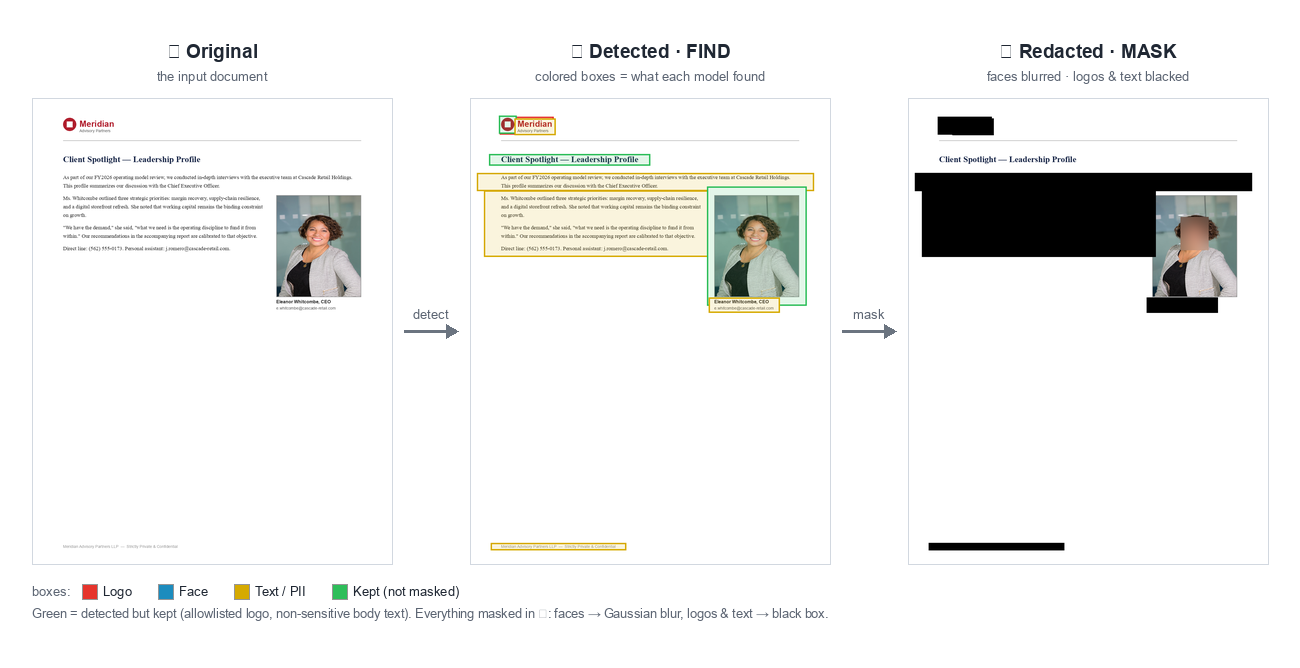
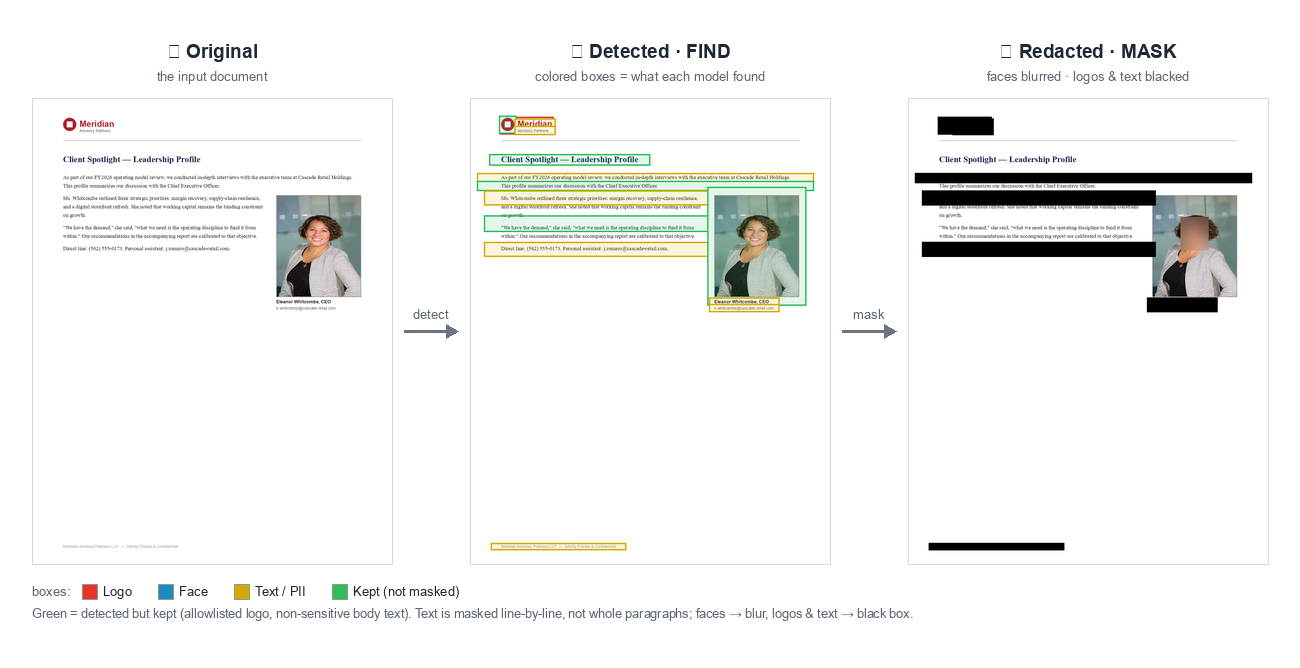
fix(text_pii): mask text line-by-line + tighten regex (reduce over-redaction)
Validation showed the text lane over-redacts: ai_parse_document returns one
coarse box per block, so pii_only masked whole paragraphs/contact-blocks when a
single token was sensitive (14-36% of the page). Two fixes:

- split_into_lines(): partition a multi-line text element's box into per-line
  bands (padded slightly) so the regex/Claude filter masks only the sensitive
  lines, not the whole element. Tables/figures left whole. Applied in both the
  notebook pipeline (parse_document_text_elements) and the app (text_detect).
- tighten PII_PATTERNS: phone now needs a real 3-3-4 shape; ZIP needs a state
  prefix or ZIP+4 — the old loose patterns fired on years / amounts / SEC ZIPs
  ("FY2026", "Net income: 4,465,000", "20549"), each blacking a line.

Re-validated: text masked-area drops on text docs (doc_report 14.6→8.0%,
nda 29→18%, business_card 25→19%, diligence 20→12%) with body copy now kept;
regex sanity passes (matches real phones/SSN/ZIP, rejects the false positives).
Walkthrough image regenerated to show line-level masking. Tables still masked
whole (dense PII by nature) — noted as a further option.

diff --git a/pipeline/text_pii.py b/pipeline/text_pii.py
@@ -35,13 +35,17 @@ from PIL import Image
 from .boxes import Detection, area_frac, clip_to_image, pad_box
 
 # ── Deterministic PII patterns (always redacted, no model needed) ───────────────
+# Patterns are intentionally structure-specific: a loose "any digits" phone or a
+# bare 5-digit ZIP fires on years, amounts, and IDs, which (combined with masking)
+# is a big source of over-redaction. Phone requires a real 3-3-4 shape; ZIP
+# requires a state prefix or the ZIP+4 form (Claude still catches looser addresses).
 PII_PATTERNS = {
     "email": re.compile(r"[A-Za-z0-9._%+-]+@[A-Za-z0-9.-]+\.[A-Za-z]{2,}"),
     "url": re.compile(r"\b(?:https?://|www\.)[^\s]+", re.I),
-    "phone": re.compile(r"(?:(?:\+?\d{1,3}[\s.-]?)?(?:\(?\d{2,4}\)?[\s.-]?){2,4}\d{2,4})"),
+    "phone": re.compile(r"(?:\+?\d{1,3}[\s.-]?)?(?:\(\d{3}\)|\d{3})[\s.-]\d{3}[\s.-]\d{4}\b"),
     "ssn": re.compile(r"\b\d{3}-\d{2}-\d{4}\b"),
     "card": re.compile(r"\b(?:\d[ -]?){13,16}\b"),
-    "zip": re.compile(r"\b\d{5}(?:-\d{4})?\b"),
+    "zip": re.compile(r"\b[A-Z]{2}\s+\d{5}(?:-\d{4})?\b|\b\d{5}-\d{4}\b"),
 }
 
 # ai_parse_document element types that represent non-text graphics.
@@ -141,7 +145,45 @@ def parse_document_text_elements(
             box = pad_box(box, pad_frac, img_w, img_h)
             dets.append(Detection(box=box, source="text", label=content[:40], score=1.0,
                                   meta={"content": content, "elem_type": etype}))
-    return dets
+    return split_into_lines(dets)
+
+
+def split_into_lines(dets: List[Detection]) -> List[Detection]:
+    """Split a multi-line text element into one detection PER LINE.
+
+    ``ai_parse_document`` returns one coarse box per element — a whole paragraph
+    or contact block is a single box — so masking the element blacks out generic
+    text around one PII token (the main source of over-redaction). We partition
+    a multi-line element's box into equal vertical bands (one per content line)
+    so the downstream regex/Claude filter can mask only the sensitive lines.
+
+    Tables (HTML content) and figures are left whole — their layout isn't a
+    simple vertical line stack. Bands are padded slightly so a line is never
+    left half-masked by an imperfect split.
+    """
+    out: List[Detection] = []
+    for d in dets:
+        content = d.meta.get("content", d.label) or ""
+        etype = d.meta.get("elem_type", "")
+        lines = content.split("\n")
+        non_empty = [ln for ln in lines if ln.strip()]
+        if (d.source != "text" or etype in FIGURE_TYPES
+                or content.strip().startswith("<table") or len(non_empty) < 2):
+            out.append(d)
+            continue
+        x1, y1, x2, y2 = d.box
+        n = len(lines)
+        h = (y2 - y1) / n
+        vpad = 0.12 * h
+        for i, ln in enumerate(lines):
+            if not ln.strip():
+                continue
+            sy1 = max(y1, y1 + i * h - vpad)
+            sy2 = min(y2, y1 + (i + 1) * h + vpad)
+            out.append(Detection(box=[x1, sy1, x2, sy2], source="text",
+                                  label=ln.strip()[:40], score=d.score,
+                                  meta={"content": ln.strip(), "elem_type": etype, "split": True}))
+    return out
 
 
 # ── PII sensitivity filter ──────────────────────────────────────────────────────

diff --git a/app/app.py b/app/app.py
@@ -201,7 +201,9 @@ def text_detect(img: Image.Image):
             box = pad_box(box, 0.08, w0, h0)
             dets.append(Detection(box=box, source="text", label=content[:40], score=1.0,
                                   meta={"content": content, "elem_type": etype}))
-    return dets
+    # split multi-line elements into per-line boxes so masking is line-tight
+    # (ai_parse returns one coarse box per paragraph/block → over-redaction)
+    return text_pii.split_into_lines(dets)
 
 
 def claude_pii_indices(contents):

diff --git a/README.md b/README.md
@@ -74,7 +74,10 @@ clips, pads, merges, and de-duplicates boxes before anything is drawn or masked:
 - **Text / PII** — Databricks **`ai_parse_document`** localizes text elements
   (including wordmark logos like Gartner / Forrester that the graphical detector
   ignores), then a **regex PII pre-filter + Claude classifier** decides what to
-  mask (`pii_only` vs `all_text`) so body copy isn't blindly blacked out.
+  mask (`pii_only` vs `all_text`) so body copy isn't blindly blacked out. Because
+  `ai_parse_document` returns one coarse box per block, multi-line elements are
+  **split into per-line boxes** so only the sensitive lines are masked, not the
+  whole paragraph (tables are still masked whole — they're dense PII by nature).
 - **Sensitive items & in-image PII** *(optional, `do_sensitive=True`)* — a
   **Claude vision** pass returns boxes for sensitive content the other lanes
   miss: **text baked into a photo** (signage, badges, on-screen data) and
